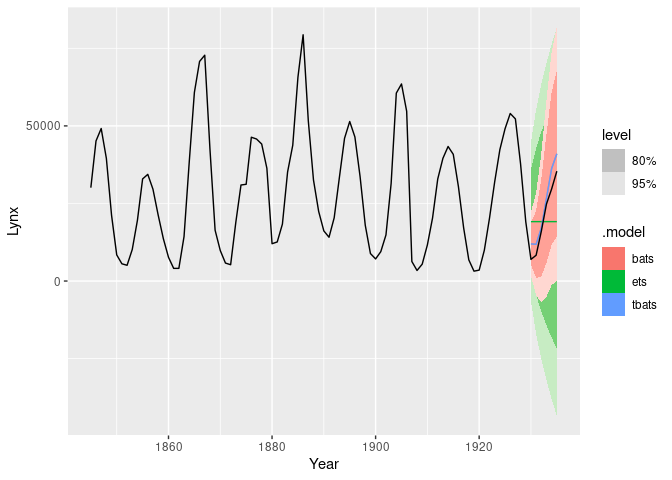
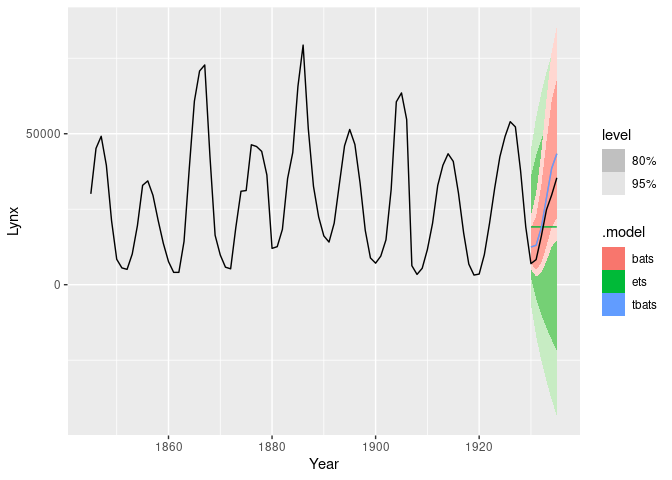
Transformed forecast distribution for Box-Cox models; version 1.0.0
A Box-Cox model now forecasts the normal distribution on the transformed
scale mapped back through the inverse transformation, so quantiles and
prediction intervals are exact and asymmetric, the mean is the second-order
bias-adjusted mean distributional computes, and the median is the
back-transformed point forecast. Previously a normal was fitted to the
80 percent upper bound on the original scale. bias_adj now affects the
fitted values only.

Claude-Session: https://claude.ai/code/session_016Kdts1FTxoMcJb3iaV1J1y

diff --git a/NEWS.md b/NEWS.md
@@ -1,4 +1,4 @@
-# fable.tbats 0.6.0
+# fable.tbats 1.0.0
 
 * The fitting is now implemented in C++ inside this package
   (`src/tbats/tbats.h`, a single header that depends only on the standard
@@ -10,6 +10,13 @@
   reproduce it to tight tolerances, and the model searches reach an equal or
   lower AIC on every test series. Sequential searches run 1.5 to 3 times
   faster than before.
+* Forecasts of a Box-Cox model are now a transformed distribution: the
+  normal forecast on the transformed scale mapped back through the inverse
+  Box-Cox transformation. Quantiles and prediction intervals are exact (and
+  asymmetric), `.mean` is the second-order bias-adjusted mean that
+  distributional computes, and the median is the back-transformed point
+  forecast. Previously a normal distribution was fitted to the 80 percent
+  bound on the original scale. `bias_adj` now affects fitted values only.
 * `components()` is available for both models.
 * `refit()` with the default `reestimate = FALSE` keeps the estimated
   parameters and re-estimates the seed states for the new series;

diff --git a/README.md b/README.md
@@ -76,9 +76,9 @@ knitr::kable(test_accuracies)
 
 | .model | .type |         ME |      RMSE |      MAE |        MPE |     MAPE | MASE | RMSSE |      ACF1 |
 | :----- | :---- | ---------: | --------: | -------: | ---------: | -------: | ---: | ----: | --------: |
-| bats   | Test  | \-3938.402 |  4410.466 | 3938.402 | \-27.68257 | 27.68257 |  NaN |   NaN | 0.2370665 |
+| bats   | Test  | \-5633.486 |  6023.186 | 5633.486 | \-36.94826 | 36.94826 |  NaN |   NaN | 0.3453116 |
 | ets    | Test  |   1061.473 | 10669.984 | 9770.000 | \-36.63239 | 71.41690 |  NaN |   NaN | 0.5558575 |
-| tbats  | Test  | \-3938.402 |  4410.466 | 3938.402 | \-27.68257 | 27.68257 |  NaN |   NaN | 0.2370665 |
+| tbats  | Test  | \-5633.486 |  6023.186 | 5633.486 | \-36.94826 | 36.94826 |  NaN |   NaN | 0.3453116 |
 
 ## Simulation
 
